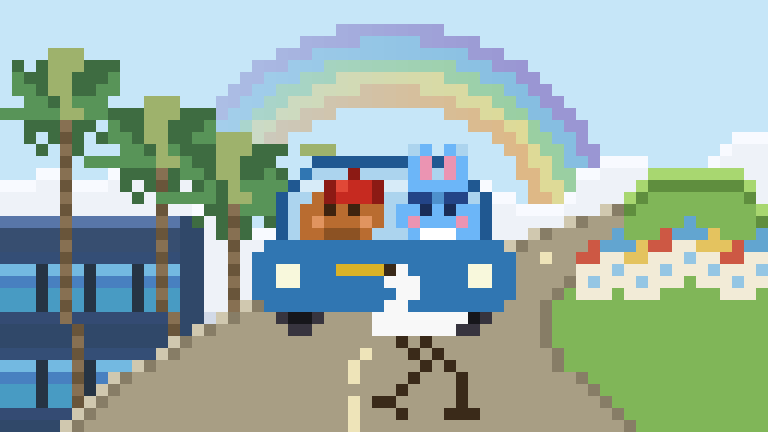
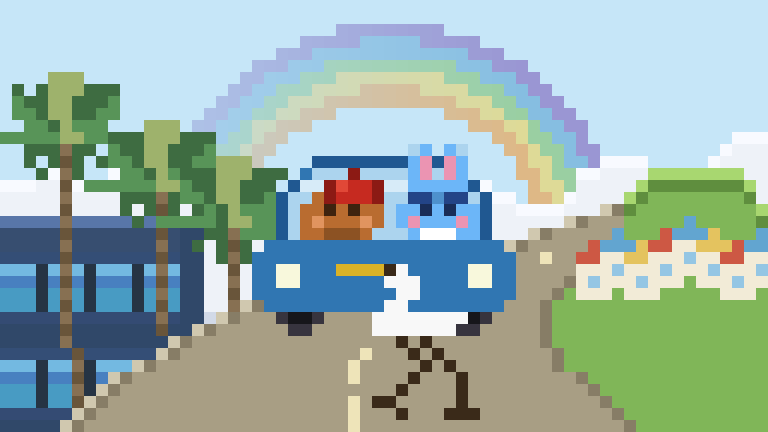
rainbow: 棕榈树全部下移2格

Changed region(s): [[0.0, 0.0903, 0.4375, 0.6319], [0.1875, 0.7222, 0.25, 0.7824], [0.0625, 0.7523, 0.125, 0.8125]]

diff --git a/pixel_rainbow.py b/pixel_rainbow.py
@@ -193,13 +193,13 @@ def draw_palm(cx, base_y, height=10):
 
 # 沿路左侧摆树（base_y=路面行，树干贴路边xl左1格）
 # 近处：橡树打底，棕榈探出树顶
-draw_palm(5, 34, height=25) # 橡树旁棕榈探高
+draw_palm(5, 36, height=25) # 橡树旁棕榈探高
 # 中近：橡树+棕榈
-draw_palm(13, 30, height=17)# 棕榈探出
+draw_palm(13, 32, height=17)# 棕榈探出
 # 中段：橡树+棕榈
-draw_palm(19, 29, height=13)# 棕榈
+draw_palm(19, 31, height=13)# 棕榈
 # 远处：小橡树+棕榈
-draw_palm(26, 25, height=8) # 远处棕榈
+draw_palm(26, 27, height=8) # 远处棕榈
 
 # 右侧波峰云（x=48~63，最顶层，盖在山坡上方）
 _cld_r2 = {
